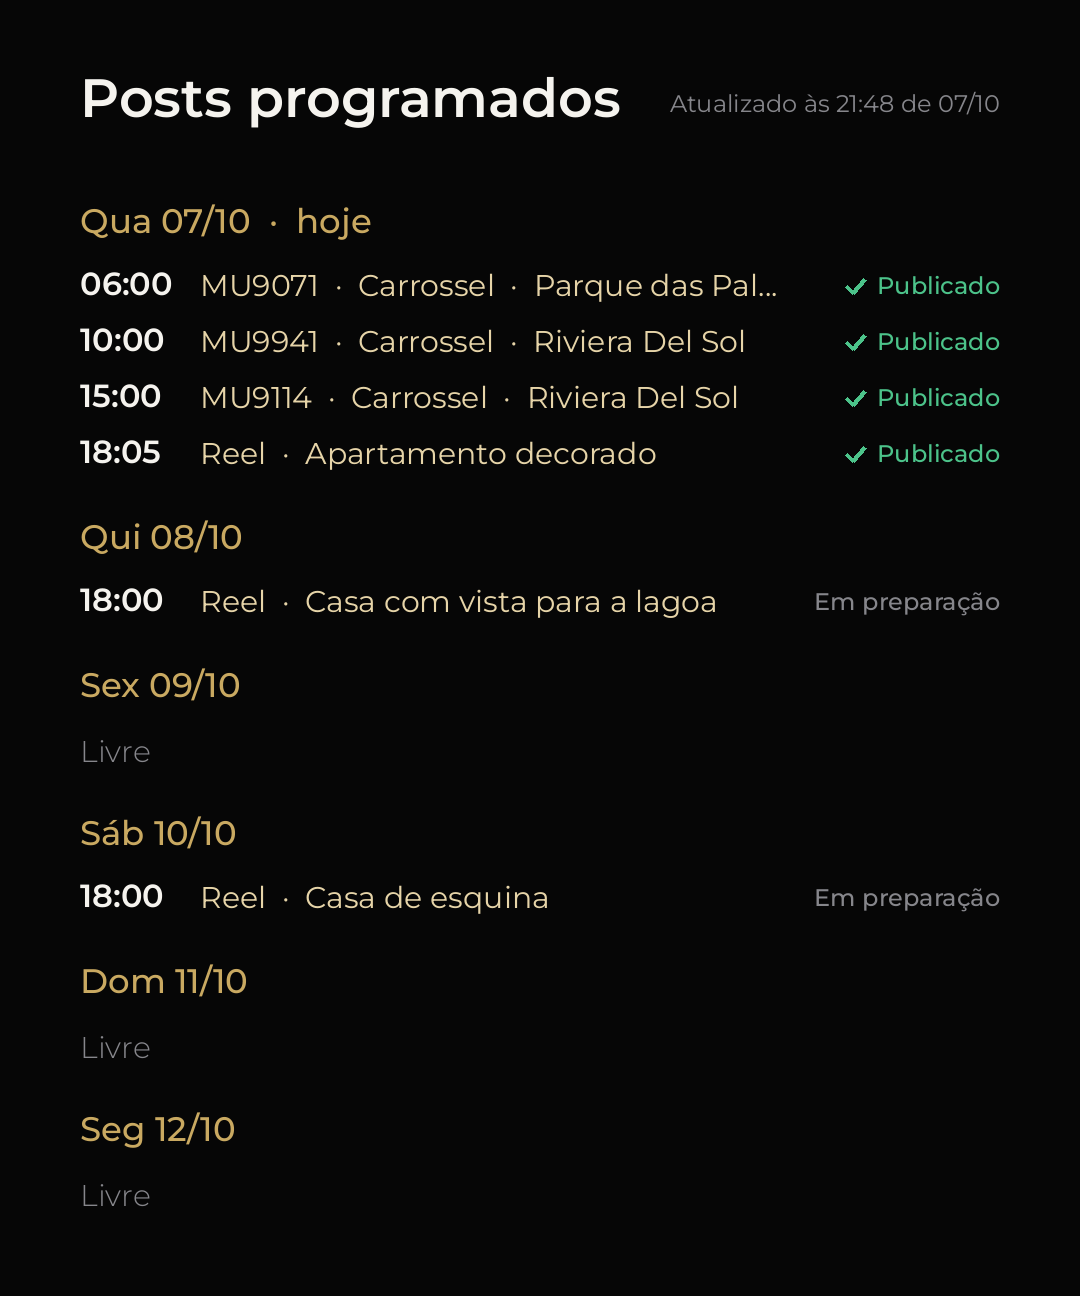
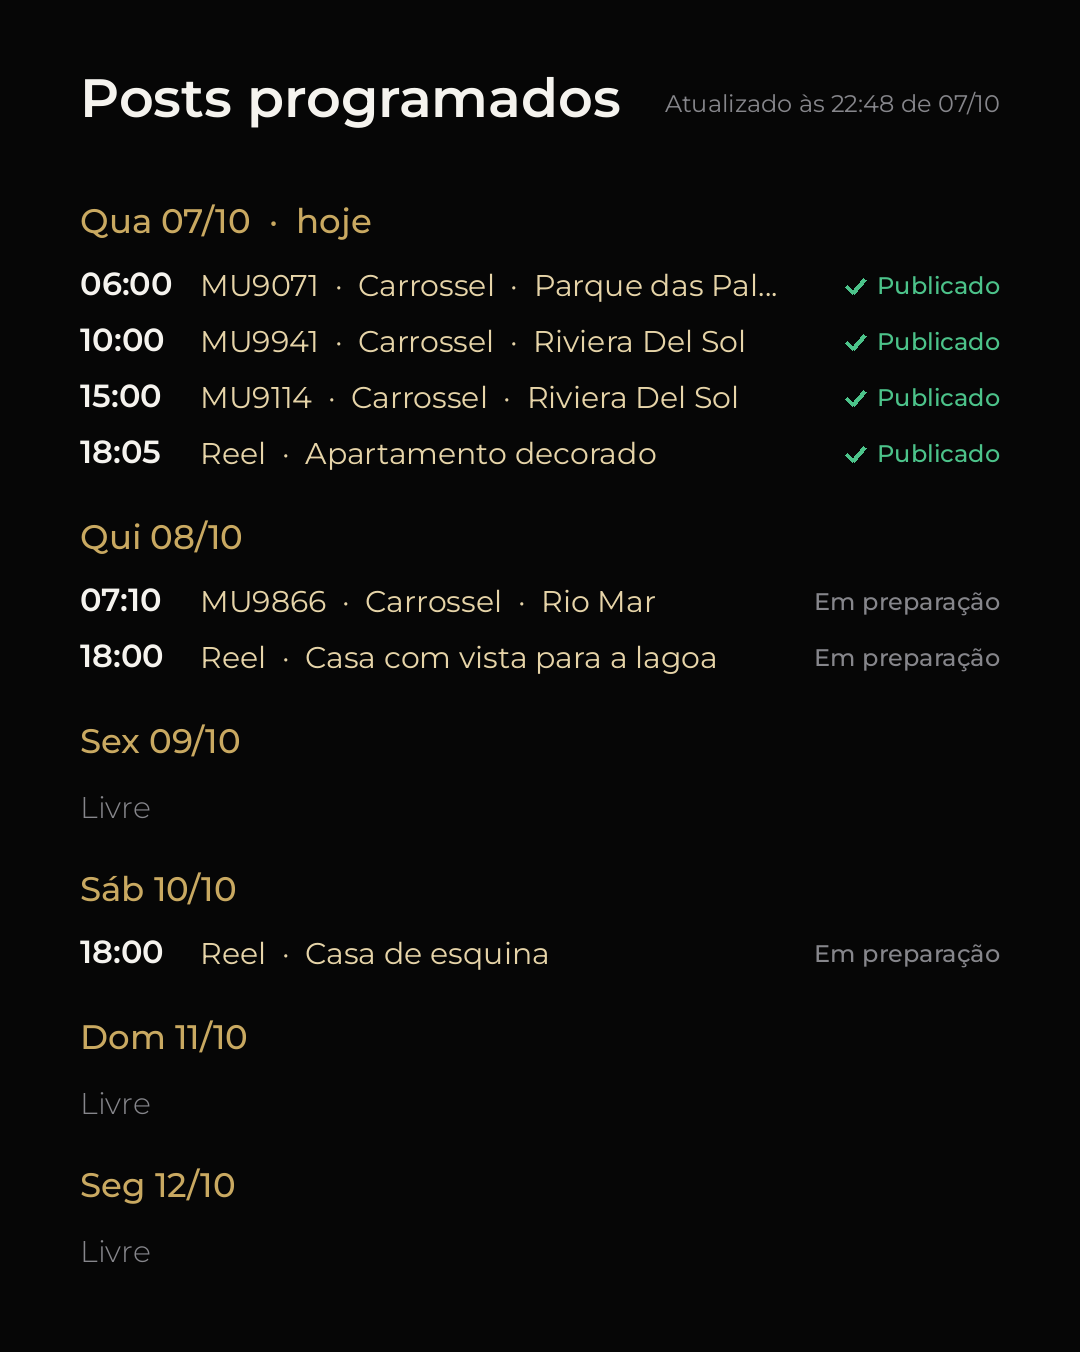
Agenda 22h48 com MU9866; aprovação MU9866 v3
Claude-Session: https://claude.ai/code/session_01EkJHzadLSsC77p5rxYVWdP

diff --git a/aprovacao/MU9866/index.html b/aprovacao/MU9866/index.html
@@ -26,14 +26,14 @@ ul.mudancas{list-style:none;border-top:1px solid var(--linha);padding-top:14px;f
 <img class="logo" src="../../inicio/logo.png" alt="Muller Imóveis RJ">
 <p class="kicker">Aprovação de post</p>
 <h1>MU9866</h1>
-<p class="meta">Carrossel só de fotos · 6 fotos · versão 2<br>Agendado para 08/10/2026 07h10 (Brasília) · pedido de Alessandra<br>Status: rascunho no Metricool, aguardando sua decisão</p>
-<h2>O que mudou nesta versão</h2><ul class="mudancas"><li>Legenda reescrita com abertura mais natural (pedido: primeira frase estava artificial)</li><li>fotos, ordem e horário mantidos</li></ul>
+<p class="meta">Carrossel só de fotos · 6 fotos · versão 3<br>Agendado para 08/10/2026 07h10 (Brasília) · pedido de Alessandra<br>Status: rascunho no Metricool, aguardando sua decisão</p>
+<h2>O que mudou nesta versão</h2><ul class="mudancas"><li>Legenda reescrita: abertura fala só do que aparece nas fotos (salão, piscina com gourmet, sótão)</li><li>banheiro do sótão saiu dos destaques</li><li>fotos, ordem e horário mantidos</li></ul>
 <div class="grid"><figure><img src="https://raw.githubusercontent.com/rangellale/muller-midia/claude/nifty-gauss-5ntzuw/MU9866/01.jpg" alt="foto 1" loading="lazy"><figcaption>1</figcaption></figure><figure><img src="https://raw.githubusercontent.com/rangellale/muller-midia/claude/nifty-gauss-5ntzuw/MU9866/03.jpg" alt="foto 2" loading="lazy"><figcaption>2</figcaption></figure><figure><img src="https://raw.githubusercontent.com/rangellale/muller-midia/claude/nifty-gauss-5ntzuw/MU9866/09.jpg" alt="foto 3" loading="lazy"><figcaption>3</figcaption></figure><figure><img src="https://raw.githubusercontent.com/rangellale/muller-midia/claude/nifty-gauss-5ntzuw/MU9866/11.jpg" alt="foto 4" loading="lazy"><figcaption>4</figcaption></figure><figure><img src="https://raw.githubusercontent.com/rangellale/muller-midia/claude/nifty-gauss-5ntzuw/MU9866/23.jpg" alt="foto 5" loading="lazy"><figcaption>5</figcaption></figure><figure><img src="https://raw.githubusercontent.com/rangellale/muller-midia/claude/nifty-gauss-5ntzuw/MU9866/27.jpg" alt="foto 6" loading="lazy"><figcaption>6</figcaption></figure></div>
 <h2>Legenda</h2>
-<div class="legenda">🏡 Suíte no térreo, para quem prefere não subir escada todo dia. E lá em cima, um sótão com banheiro completo para virar sala de jogos, home office ou cinema.<br><br>Casa triplex no Rio Mar, na Barra da Tijuca. O térreo tem living e sala de jantar integrados, lavabo, cozinha, despensa e lavanderia. No segundo pavimento ficam quatro suítes climatizadas, e a master tem hidromassagem. Do lado de fora, piscina, sauna e espaço gourmet. 🥂<br><br>✨ Destaques:<br>✔ 5 suítes, uma delas no térreo<br>✔ Suíte master com hidromassagem<br>✔ Sótão com banheiro completo<br>✔ Piscina, sauna e espaço gourmet<br>✔ 2 vagas de garagem<br>✔ 306 m² de área útil, terreno de 383 m²<br><br>💰 R$ 3.400.000<br>📍 Rio Mar, Barra da Tijuca<br>🔑 Cód. MU9866<br><br>📲 Chame no direct ou WhatsApp 21 99361-7508 para agendar sua visita.<br><br>#mullerimóveisrj #riomar #barradatijuca<br></div>
+<div class="legenda">🏡 Salão amplo com living e sala de jantar, piscina com espaço gourmet e um sótão inteiro no terceiro andar. Casa triplex no Rio Mar, na Barra da Tijuca.<br><br>São 5 suítes, uma delas no térreo. No segundo pavimento, quatro suítes climatizadas, e a master tem hidromassagem. O sótão fica livre para virar sala de jogos, home office ou cinema. Do lado de fora, piscina, sauna e espaço gourmet. 🥂<br><br>✨ Destaques:<br>✔ 5 suítes, uma delas no térreo<br>✔ Suíte master com hidromassagem<br>✔ Sótão versátil no terceiro andar<br>✔ Piscina, sauna e espaço gourmet<br>✔ 2 vagas de garagem<br>✔ 306 m² de área útil, terreno de 383 m²<br><br>💰 R$ 3.400.000<br>📍 Rio Mar, Barra da Tijuca<br>🔑 Cód. MU9866<br><br>📲 Chame no direct ou WhatsApp 21 99361-7508 para agendar sua visita.<br><br>#mullerimóveisrj #riomar #barradatijuca<br></div>
 <div class="botoes">
-<a class="botao ok" href="https://form.jotform.com/262798262568070?q3_textbox1=MU9866+v2&amp;q4_radio2=Aprovar+e+agendar&amp;q6_textbox4=Ale">Aprovar e agendar</a>
-<a class="botao" href="https://form.jotform.com/262798262568070?q3_textbox1=MU9866+v2&amp;q4_radio2=Pedir+altera%C3%A7%C3%A3o&amp;q6_textbox4=Ale">Pedir alteração</a>
+<a class="botao ok" href="https://form.jotform.com/262798262568070?q3_textbox1=MU9866+v3&amp;q4_radio2=Aprovar+e+agendar&amp;q6_textbox4=Ale">Aprovar e agendar</a>
+<a class="botao" href="https://form.jotform.com/262798262568070?q3_textbox1=MU9866+v3&amp;q4_radio2=Pedir+altera%C3%A7%C3%A3o&amp;q6_textbox4=Ale">Pedir alteração</a>
 </div>
 <p class="nota">Aprovar: o post é agendado na próxima rodada (a cada hora, minuto 47) e o corretor recebe SMS. Pedir alteração: diga o que mudar; você recebe um novo SMS com o link desta página atualizada, até aprovar.</p>
 </main></body></html>
